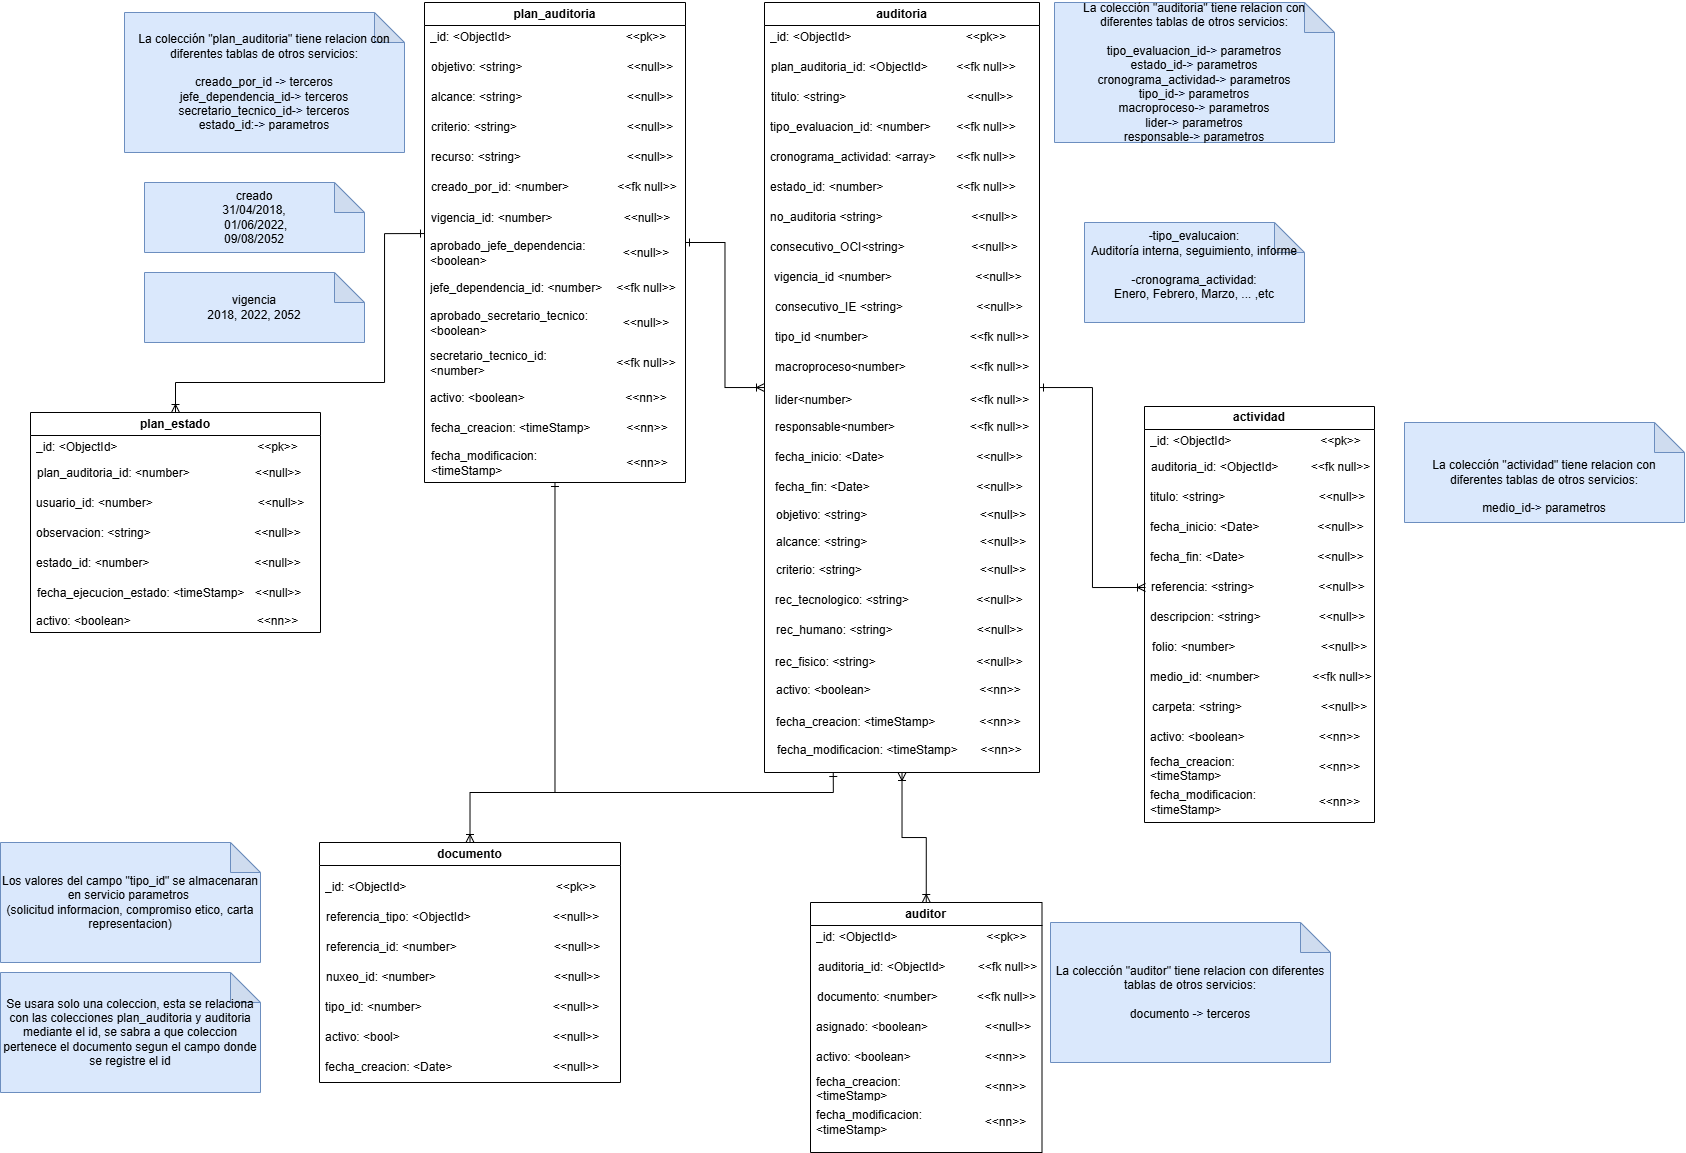
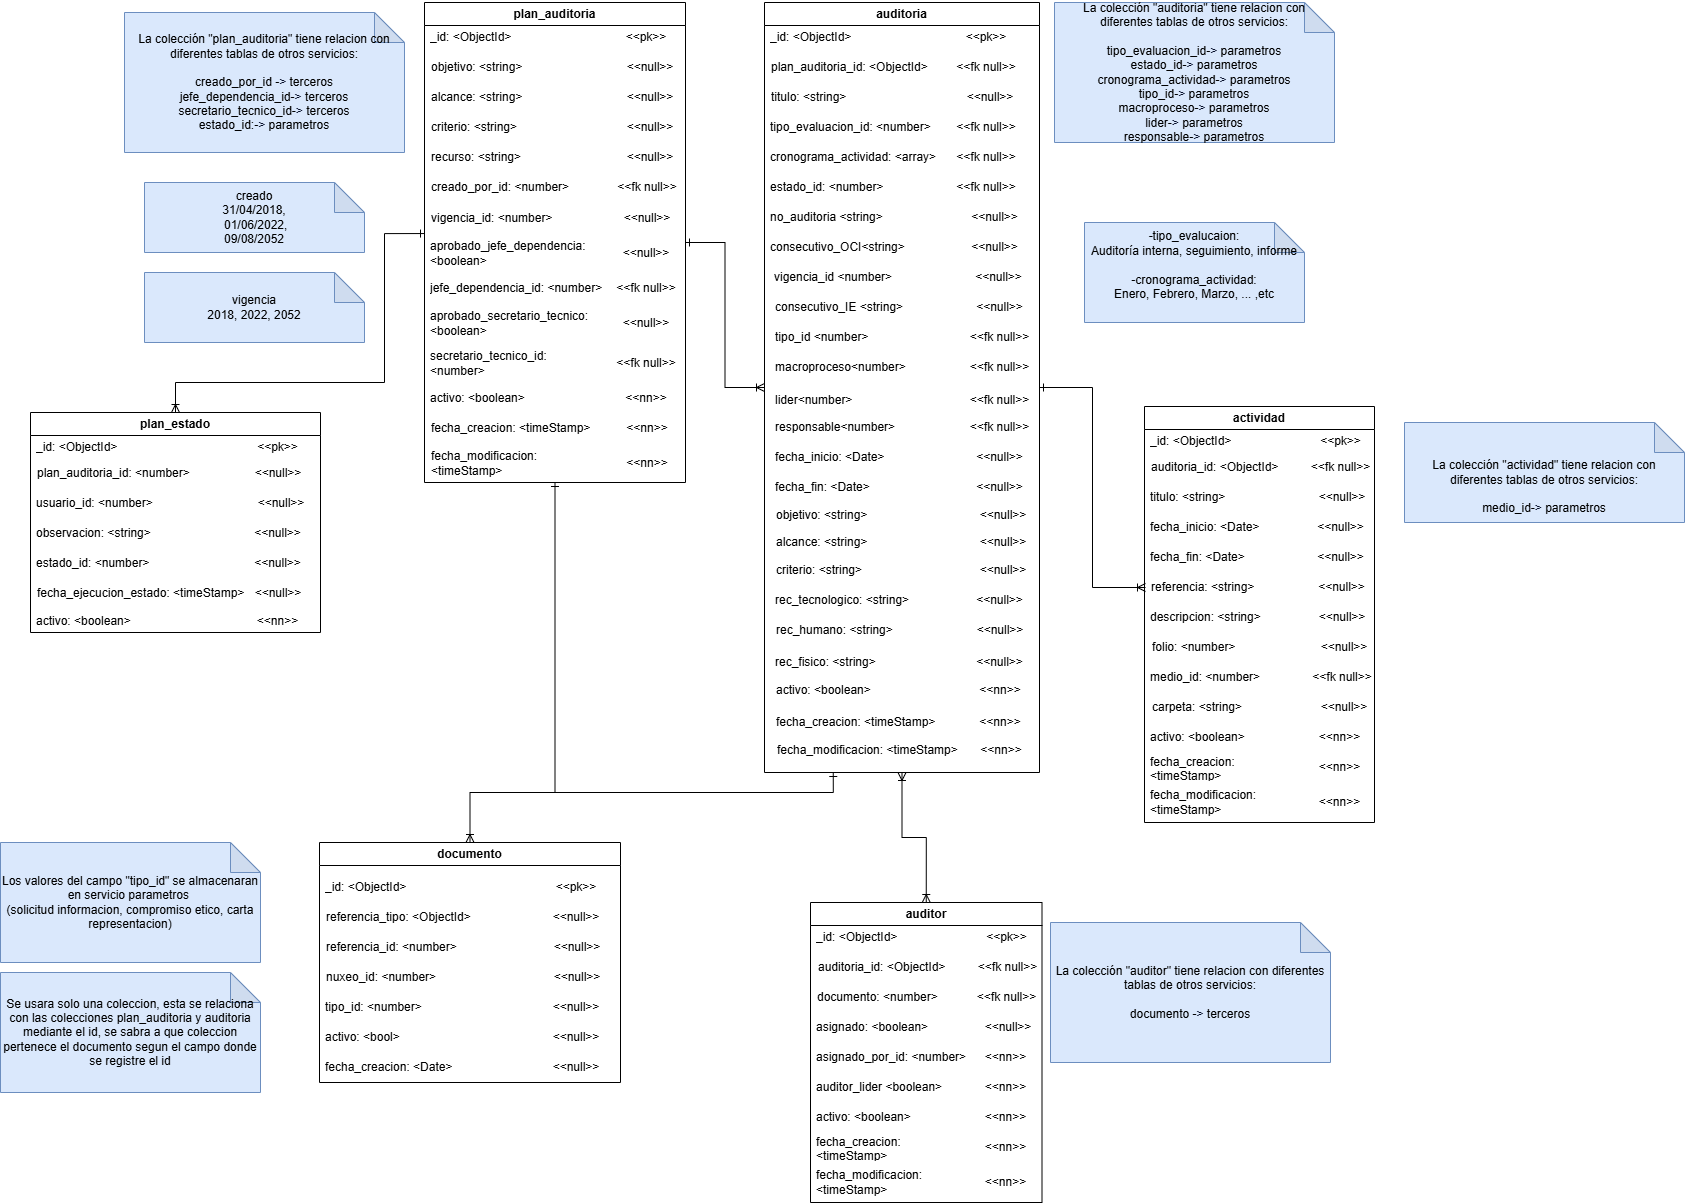
feat: se agregan campos a auditor udistrital/sisifo_documentacion#292

diff --git a/src/auditor/schemas/auditor.schema.ts b/src/auditor/schemas/auditor.schema.ts
@@ -13,6 +13,12 @@ export class Auditor extends Document {
     @Prop({ required: true, default: true })
     asignado: boolean;
 
+    @Prop({ required: true })
+    asignado_por_id: number;
+
+    @Prop({ required: true })
+    auditor_lider: boolean;
+
     @Prop({ required: false })
     activo: boolean;
 

diff --git a/src/auditor/dto/auditor.dto.ts b/src/auditor/dto/auditor.dto.ts
@@ -9,6 +9,12 @@ export class AuditorDTO {
 
     @ApiProperty()
     readonly asignado: boolean;
+    
+    @ApiProperty()
+    readonly asignado_por_id: number;
+    @ApiProperty()
+
+    readonly auditor_lider: boolean;
 
     @ApiProperty()
     activo: boolean;
